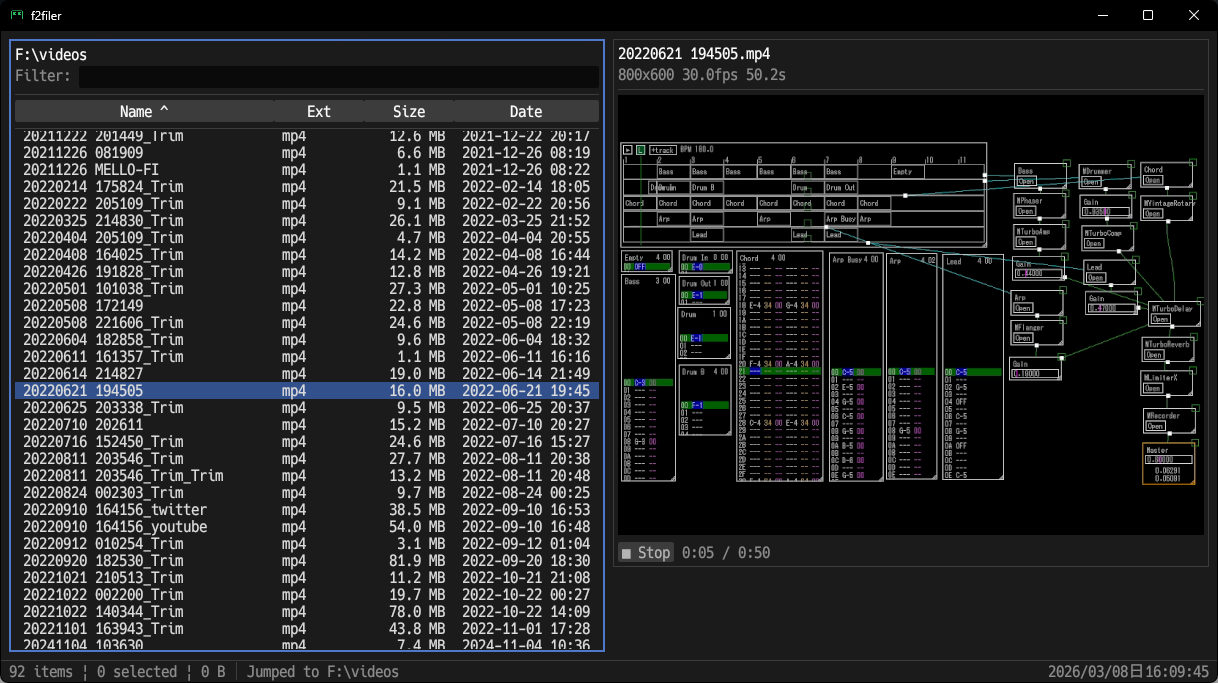
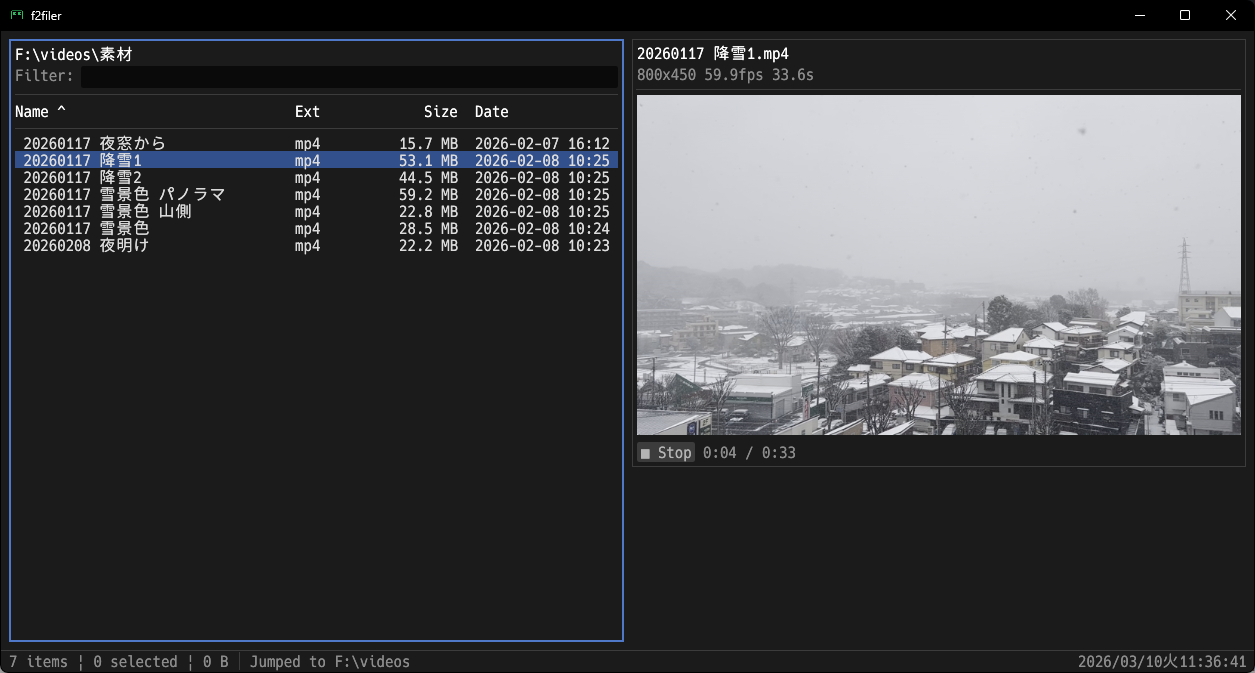
Update README screenshots with 4 new images (main, image, video, audio previews)

diff --git a/README.md b/README.md
@@ -4,8 +4,10 @@ Windows 用の2画面ファイラー。
 
 ## スクリーンショット
 
-![f2filer](docs/screenshot.png)
+![f2filer](docs/screenshot-main.png)
+![画像プレビュー](docs/screenshot-image.png)
 ![動画プレビュー](docs/screenshot-video.png)
+![音声プレビュー](docs/screenshot-audio.png)
 
 ## 特徴
 
